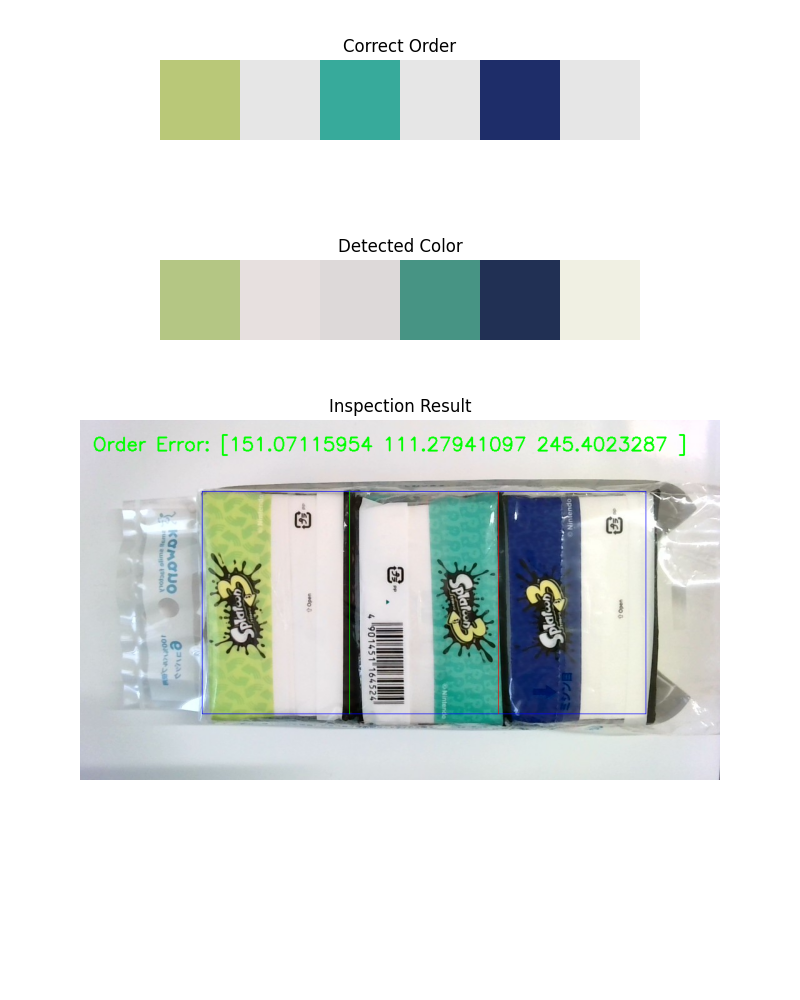
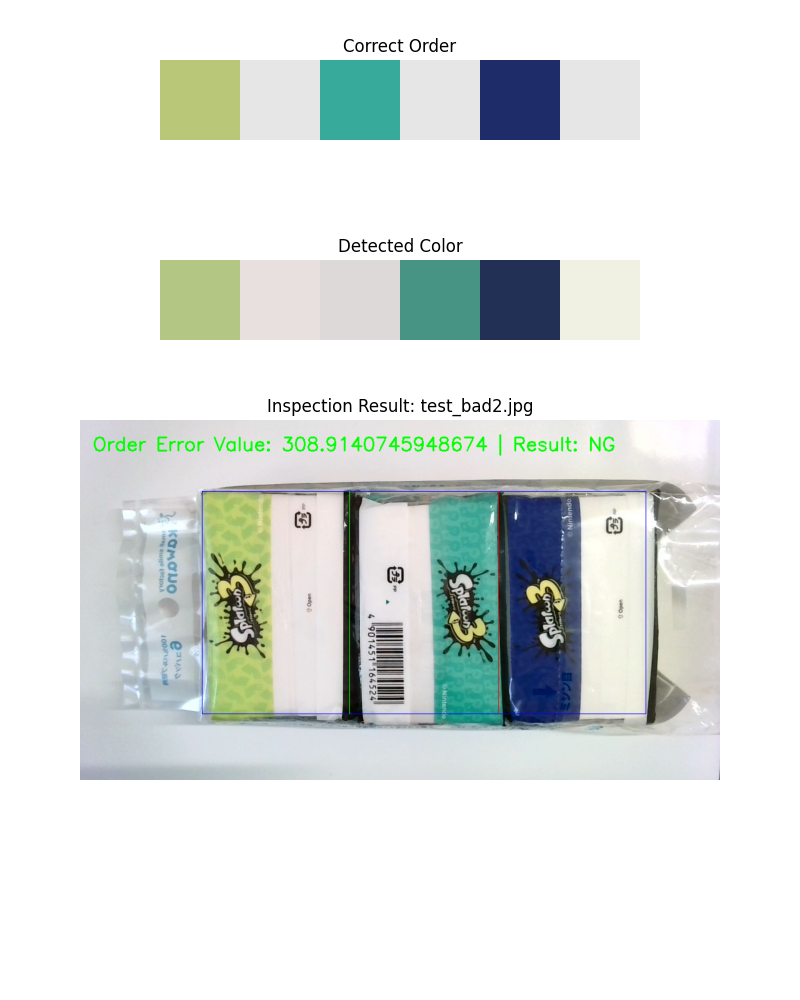
update insp km2

Changed region(s): [[0.25, 0.403, 0.8438, 0.465]]

diff --git a/tissue_insp_km2.py b/tissue_insp_km2.py
@@ -11,7 +11,7 @@ import matplotlib.pyplot as plt
 IMG_WIDTH, IMG_HEIGHT = 1024, 576
 NUM_CLUSTERS = 2  # k-means で分類する色の数
 MODEL_PATH = "tissue_orientation_model.h5"  # 事前学習済みの向き判定モデル
-DIST_TH = 200
+DIST_TH = 100
 # 正しい順番（黄緑/白、水色/白、紺色/白）と比較  250306
 CORRECT_ORDER = [
     ((120, 200, 185), (230, 230, 230)),  # 黄緑/白
@@ -24,7 +24,7 @@ def get_dominant_colors(image, k=NUM_CLUSTERS):
     pixels = image.reshape(-1, 3)
     
     # K-meansクラスタリング
-    kmeans = KMeans(n_clusters=k, random_state=42, n_init=10)
+    kmeans = KMeans(n_clusters=k, random_state=42, verbose=1, n_init=10)
     labels = kmeans.fit_predict(pixels)
     colors = kmeans.cluster_centers_.astype(int)
 
@@ -40,16 +40,6 @@ def get_dominant_colors(image, k=NUM_CLUSTERS):
 
 def check_tissue_order(image):
     """ ティッシュの上下の色ペアを取得し、並び順をチェック """
-    # h, w, _ = image.shape
-    # third_w = w // 3
-    # half_h = h // 2  # 上下分割   #250304
-
-    # tissues = [
-    #     image[:, 0:third_w],       # 左
-    #     image[:, third_w:2*third_w],  # 中央
-    #     image[:, 2*third_w:w]      # 右
-    # ]
-
     h, w = TIS_H, TIS_W
     third_w = w // 3
     # half_h = h // 2  # 上下分割
@@ -93,6 +83,7 @@ def check_tissue_order(image):
 
     # error = detected_colors != correct_order
     error = sum(np.linalg.norm(np.array(detected_colors) - np.array(CORRECT_ORDER), axis=1))
+    error = np.linalg.norm(error)
 
     return error, detected_colors
 
@@ -109,27 +100,23 @@ def inspect_tissue(image_path):
     # 画像を読み込んで判定
     # image_resized = cv2.resize(image, (1024, 576))
     error_num, detected_colors = check_tissue_order(image_bgr)  #250306
-    # error = error_num > DIST_TH     #250306
+    error = error_num > DIST_TH     #250307
 
-    print("並び順エラー値:", error_num)
-    # print("並び順 判定:", error)
     print("検出された色ペア:", convert_tuple(detected_colors) )   #250304
 
+    #正規化(plt表示用)
     color = np.array(convert_tuple(detected_colors), dtype=float) / 255
-    flat_color = np.array(color).reshape(-1,3)    #250304
-    # print("検出された色ペア:",flat_color)
-
     crct_order = np.array(convert_tuple(CORRECT_ORDER), dtype=float) / 255
+
+    #配列を1次元に
+    flat_color = np.array(color).reshape(-1,3)    #250304
     flat_crct_order = np.array(crct_order).reshape(-1,3)    #250304
 
+    #BGR->RGB(plt表示用)
     flat_crct_order_rgb = flat_crct_order[:,[2,1,0]]         #250306
     flat_color_rgb = flat_color[:,[2,1,0]]         #250306
 
-    # 画像として表示
-    # plt.imshow([flat_color_rgb])  # 1行の画像として表示    #250304
-    # plt.axis("off")  # 軸を非表示
-    # plt.show()
-
+    # 結果を描画
     fig, ax = plt.subplots(3, 1, figsize=(8, 10))       #250306
     ax[0].imshow([flat_crct_order_rgb])  # 1行の画像として表示    #250304
     ax[0].axis("off")  # 軸を非表示
@@ -141,8 +128,15 @@ def inspect_tissue(image_path):
     ax[1].set_title("Detected Color")
     ax[1].set_position([0.2,0.4,0.6,0.6])
 
-    # 結果を描画
-    result_text = f"Order Error: {error_num}" #250303, 向き: {orientation}"
+    if error_num > DIST_TH:
+        error = "NG"
+    else:
+        error = "OK"
+
+    print("並び順エラー値:", error_num)
+    print("並び順 判定:", error)
+
+    result_text = f"Order Error Value: {error_num} | Result: {error}" #250303, 向き: {orientation}"
     imgcv2=cv2.putText(image_bgr, result_text, (20, 50), cv2.FONT_HERSHEY_SIMPLEX, 1, (0, 255, 0), 2)
 
     img_rec=cv2.rectangle(image_bgr, (W_L_EG, H_T_EG), (W_R_EG, H_B_EG), (255, 0, 0))         #250304
@@ -154,11 +148,11 @@ def inspect_tissue(image_path):
     ax[2].imshow(img_lin1)
     ax[2].imshow(img_lin2)
     ax[2].imshow(image_bgr[:, :, [2,1,0]])
-    ax[2].set_title("Inspection Result")
+    ax[2].set_title("Inspection Result: "+target_name)
     ax[2].axis("off")
     ax[2].set_position([0.1,0,0.8,0.8])
     
-    plt.savefig("./my_dir/tis_insp/res_"+target_name+".png") #250221
+    # plt.savefig("./my_dir/tis_insp/res_"+target_name+".png") #250221
     plt.show()
 
 # 入れ子タプルをNp.int64など型表示をなくす処理
@@ -173,5 +167,5 @@ H_T_EG = 115
 H_B_EG = H_T_EG + TIS_H
 
 # 画像を検査
-image_path = "./my_dir/tis_insp/Input/test_bad2.jpg"  # テスト画像
+image_path = "./my_dir/tis_insp/Input/test_bad4.jpg"  # テスト画像
 inspect_tissue(image_path)
